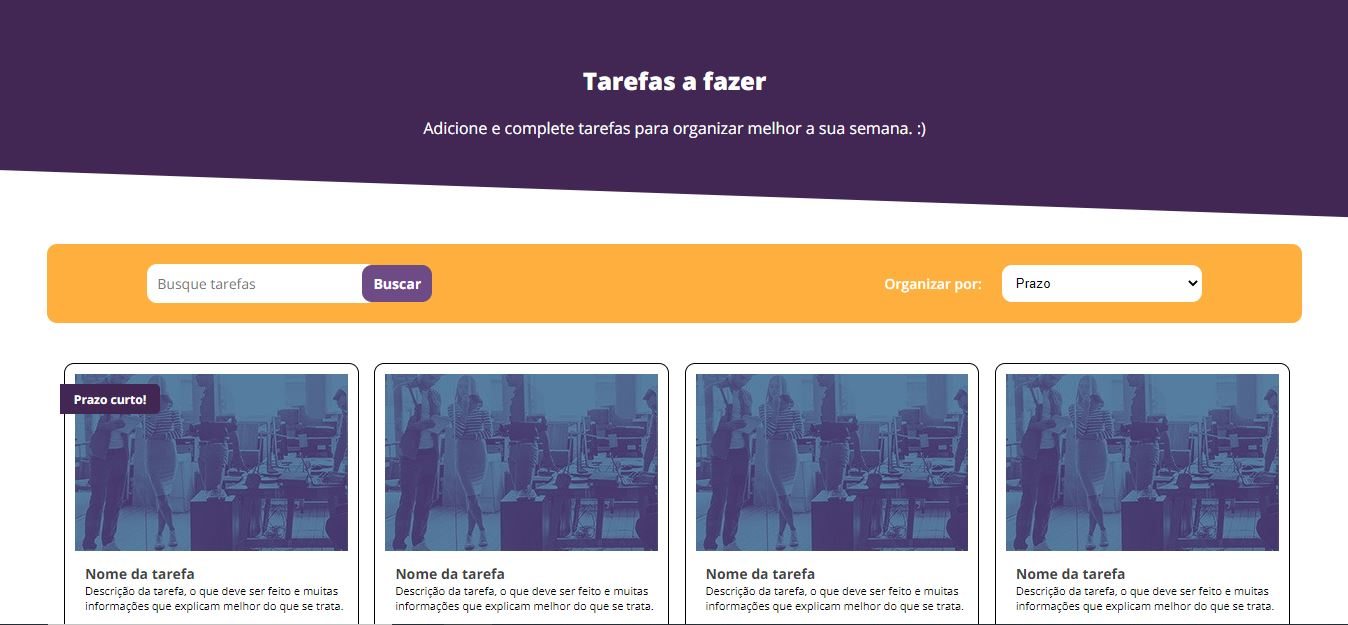
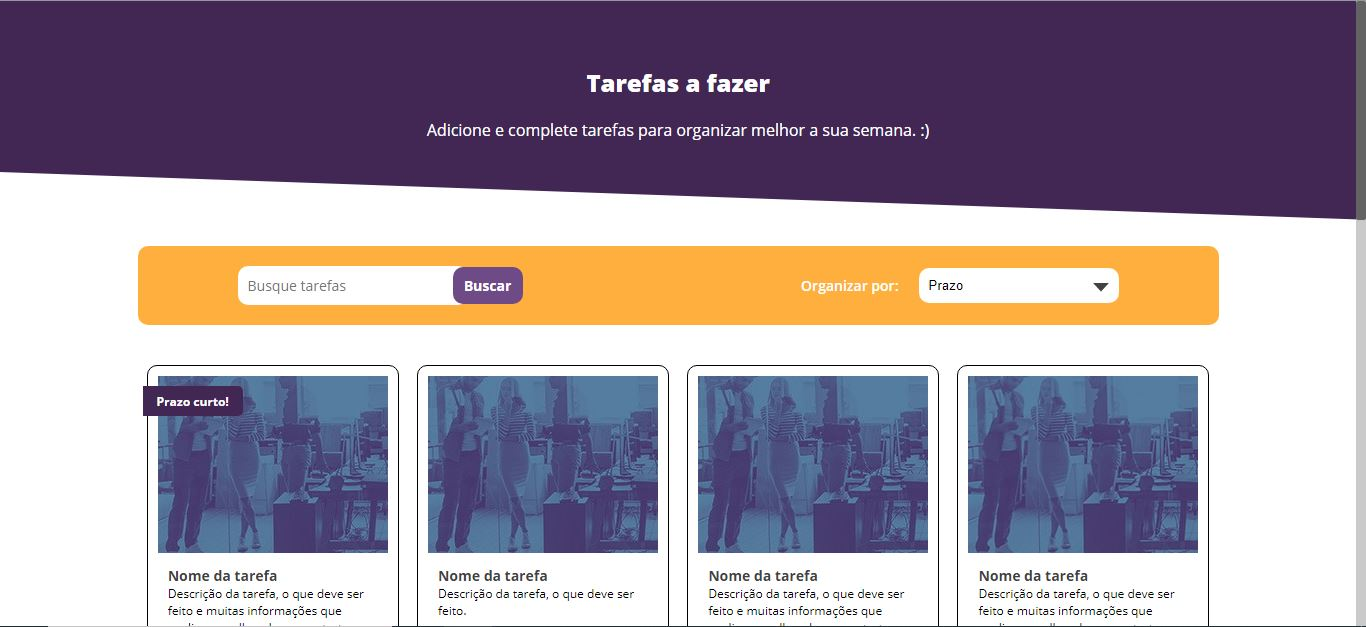
docs: new images

diff --git a/README.md b/README.md
@@ -3,7 +3,7 @@
 
 <h1 align='center'>WebDesigner Junior - Linx 🐱🏍</h1>  
 
-<p align='center'>O layout foi desenvolvido seguindo todas as instruções do FIGMA. Nenhuma adversidade a ressaltar com base no prototipo apresentado. Utilizei o padrão BEM para padronização de classes e "7-1 Folder" para arquitetura do SCSS. HTML estruturado para integração de API e exibição dos dados nos Card Components. </p> 
+<p align='center'>O layout foi desenvolvido seguindo todas as instruções do FIGMA. Com mais tempo fiz com que ficasse totalmente fidedigno ao requisitos exigidos, atingindo os pormenores. Utilizei o padrão BEM para organização das classes e Mobile First para melhor aproveitamento do código.</p> 
 <p align='center'>
  <img src='https://img.shields.io/badge/HTML5-E34F26?style=for-the-badge&logo=html5&logoColor=white'>
  <img src='https://img.shields.io/badge/Sass-CC6699?style=for-the-badge&logo=sass&logoColor=white'>
